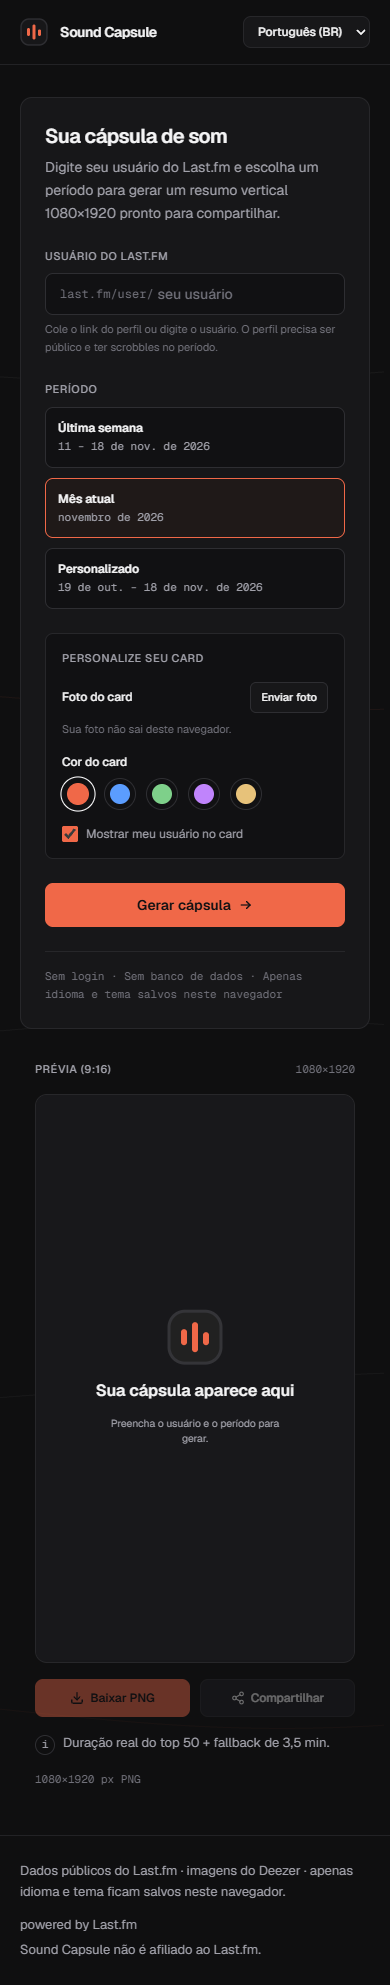
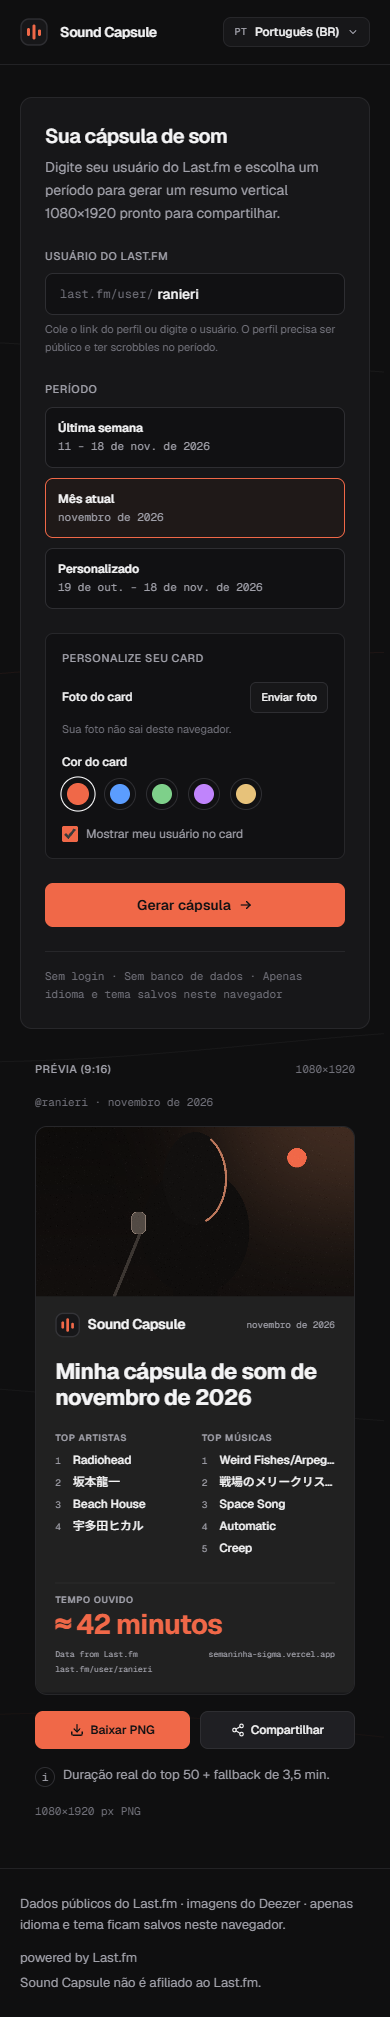
docs: update multilingual docs and screenshots
Document the eleven locales, custom language menu and mobile scroll behavior, and refresh the home/result/card screenshots.

diff --git a/README.md b/README.md
@@ -20,7 +20,7 @@ Exemplo com nomes em japonês, coreano e chinês renderizados no PNG exportado: 
 - **Duas colunas numeradas** (Top artistas e Top músicas, 1–5) com truncamento por reticências e suporte a CJK (japonês, coreano e chinês).
 - **Minutagem estimada** com destaque sólido na cor do tema, tooltip explicando o cálculo e formatação via `Intl`.
 - **Progresso real** de paginação ("Página 12 de 40"), skeleton na prévia e cancelamento com `AbortController`.
-- **i18n** em `pt`, `en`, `es`, `fr`, `de`, `it` e `ja`, com detecção por `Accept-Language`, seletor manual no header, rotas prefixadas e textos/datas/números formatados com `Intl`.
+- **i18n** em `pt`, `en`, `es`, `fr`, `de`, `it`, `ja`, `ko`, `zh`, `ru` e `pl`, com detecção por `Accept-Language`, seletor manual no header, rotas prefixadas e textos/datas/números formatados com `Intl`.
 - **Créditos no card** (“Data from Last.fm”, link do perfil e URL do site), com opção de ocultar o username do card.
 - **Fundo em `<canvas>`** com linhas de onda discretas que reagem ao mouse, pausam com a aba oculta e desligam com `prefers-reduced-motion`.
 - **Acessível**: navegação por teclado, labels, `role="progressbar"`, alerts, contraste AA e respeito a movimento reduzido.
@@ -149,6 +149,7 @@ components/
   CardHero.tsx            # foto do artista/upload ou fallback canvas
   BackgroundCanvas.tsx    # ondas de fundo (mouse, reduced motion, hidden)
   SiteHeader.tsx / SiteFooter.tsx / BrandMark.tsx
+  LocaleSwitcher.tsx      # dropdown customizado e acessível de idioma
 i18n/                     # routing/request/navigation do next-intl
 lib/
   lastfmClient.ts         # paginação, concorrência, pacer, retry/backoff, abort
@@ -238,15 +239,16 @@ Tipografia: Geist (sans) + Geist Mono (números/detalhes) + Noto Sans JP/KR/SC p
 
 ## i18n
 
-- Locales: `pt` (padrão, conteúdo pt-BR), `en`, `es`, `fr`, `de`, `it`, `ja`.
-- Detecção por `Accept-Language` no middleware (o cookie `NEXT_LOCALE` tem prioridade); troca manual no header preserva a rota e o card em memória.
-- Datas e números usam `Intl` com o locale regional correto (`pt-BR`, `en-US`, `es-ES`, `fr-FR`, `de-DE`, `it-IT`, `ja-JP`).
+- Locales: `pt` (padrão, conteúdo pt-BR), `en`, `es`, `fr`, `de`, `it`, `ja`, `ko`, `zh` (chinês simplificado), `ru` e `pl`.
+- Detecção por `Accept-Language` no middleware (o cookie `NEXT_LOCALE` tem prioridade); troca manual no header preserva a rota e o card em memória. O seletor é um dropdown customizado, não o `<select>` nativo.
+- Datas e números usam `Intl` com o locale regional correto (`pt-BR`, `en-US`, `es-ES`, `fr-FR`, `de-DE`, `it-IT`, `ja-JP`, `ko-KR`, `zh-CN`, `ru-RU`, `pl-PL`).
 - O texto do card é traduzido junto com a interface; a imagem exportada já usa o idioma ativo.
+- Fontes: Geist carrega latin/latin-ext/cirílico; Noto Sans JP/KR/SC cobre os caracteres CJK no card.
 
 ## Testes
 
 ```bash
-pnpm test        # 85 testes unitários
+pnpm test        # 108 testes unitários
 pnpm typecheck
 pnpm build
 ```
@@ -262,7 +264,7 @@ Cobertura atual:
 - temas e store de sessão;
 - validação do upload local (tipo/tamanho).
 
-Além disso, o fluxo foi verificado em Chromium com Last.fm/Deezer simulados: tema, upload, créditos, username oculto, troca de idioma sem novas requisições, apenas cookie/localStorage permitidos, F5, validação de 3 meses, export **1080×1920** e mobile — **31 verificações, todas passando**. O fluxo real também foi executado contra a API do Last.fm/Deezer com um perfil ativo, gerando e exportando o PNG 1080×1920.
+Além disso, o fluxo foi verificado em Chromium com Last.fm/Deezer simulados: tema, upload, créditos, username oculto, troca de idioma sem novas requisições, dropdown customizado (mouse, teclado e clique fora), rotas `ko`/`ru`/`zh`/`pl`, scroll automático para a prévia no mobile, apenas cookie/localStorage permitidos, F5, validação de 3 meses e export **1080×1920**. O fluxo real também foi executado contra a API do Last.fm/Deezer com um perfil ativo.
 
 ## Limitações conhecidas
 
